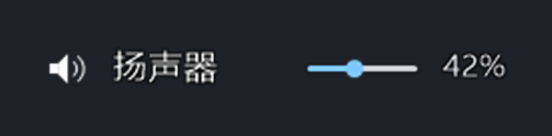
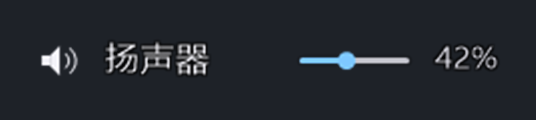
feat: 文字颜色自动跟随任务栏明暗（浅底黑字 / 深底白字）（v1.2.2）
- SetTextColors 统一按底色亮度选字色与描边反差
- 每 60 秒采样 1 个像素判断任务栏明暗（只有明暗真的变了才重绘）
- 右键菜单新增「文字颜色」：自动 / 黑字 / 白字，写进 config 的 textmode
- 版本 1.2.2.0

Changed region(s): [[0.0597, 0.35, 0.4179, 0.625], [0.5373, 0.375, 0.9254, 0.6]]

diff --git a/src/Program.cs b/src/Program.cs
@@ -63,6 +63,7 @@ namespace SideTray
         public string Mode = "taskbar";   // taskbar | float
         public bool ShrinkTaskList = false;
         public bool SwitchInput = true;                 // 切输出时一起切麦克风
+        public string TextMode = "auto";                 // auto | light | dark（light=浅底用黑字）
         public string BgColor = "";                      // 上次采到的任务栏颜色 "r,g,b"，冷启动兜底
         public List<string[]> Pairs = new List<string[]>();  // 手动配对：{输出名/ID, 输入名/ID}
 
@@ -97,6 +98,7 @@ namespace SideTray
                         case "shrink": c.ShrinkTaskList = v != "0"; break;
                         case "switchinput": c.SwitchInput = v != "0"; break;
                         case "bgcolor": c.BgColor = v; break;
+                        case "textmode": if (v == "auto" || v == "light" || v == "dark") c.TextMode = v; break;
                         case "pair":
                             {
                                 var parts = v.Split('|');
@@ -124,6 +126,8 @@ namespace SideTray
                 sb.AppendLine("shrink=" + (ShrinkTaskList ? "1" : "0"));
                 sb.AppendLine("# switchinput: 1 = 切换输出设备时把麦克风也切到配对的设备");
                 sb.AppendLine("switchinput=" + (SwitchInput ? "1" : "0"));
+                sb.AppendLine("# textmode: auto = 按任务栏明暗自动换（浅底黑字/深底白字）, light = 固定黑字, dark = 固定白字");
+                sb.AppendLine("textmode=" + TextMode);
                 if (!string.IsNullOrEmpty(BgColor)) sb.AppendLine("bgcolor=" + BgColor);
                 foreach (var pr in Pairs) sb.AppendLine("pair=" + pr[0] + "|" + pr[1]);
                 sb.AppendLine("x=" + X);
@@ -759,10 +763,11 @@ namespace SideTray
         {
             // 嵌入任务栏时用「白字 + 深色描边」：不管任务栏是浅色、深色还是壁纸透出来的，
             // 都能看清；也因此完全不依赖截屏取色（截屏在某些远程/多屏环境下拿到的是别的画面）
-            var textC = embedded ? Color.White : Ui.Text;
-            var dimC = embedded ? Color.FromArgb(232, 232, 240) : Ui.Dim;
-            var accentC = embedded ? Color.FromArgb(126, 200, 255) : Ui.Accent;
-            var shadowC = Color.FromArgb(175, 0, 0, 0);
+            var textC = embedded ? barText : Ui.Text;
+            var dimC = embedded ? barDim : Ui.Dim;
+            var accentC = embedded ? barAccent : Ui.Accent;
+            // 深底白字描黑边、浅底黑字描白边，两种都能看清
+            var shadowC = bgLight ? Color.FromArgb(200, 255, 255, 255) : Color.FromArgb(185, 0, 0, 0);
             var fontMain = embedded ? Ui.FontCompact : Ui.FontMain;
             var fontSmall = embedded ? Ui.FontTiny : Ui.FontSmall;
 
@@ -825,7 +830,7 @@ namespace SideTray
             if (transparent)
             {
                 // 深浅两层，保证在任何壁纸/任务栏颜色上都看得见
-                using (var under = new Pen(Color.FromArgb(80, 0, 0, 0), thick + 2.5f) { StartCap = LineCap.Round, EndCap = LineCap.Round })
+                using (var under = new Pen(bgLight ? Color.FromArgb(70, 255, 255, 255) : Color.FromArgb(85, 0, 0, 0), thick + 2.5f) { StartCap = LineCap.Round, EndCap = LineCap.Round })
                     g.DrawLine(under, tl, cy, tr, cy);
                 using (var baseTrack = new Pen(Color.FromArgb(225, dimC), thick) { StartCap = LineCap.Round, EndCap = LineCap.Round })
                     g.DrawLine(baseTrack, tl, cy, tr, cy);
@@ -1218,20 +1223,35 @@ namespace SideTray
             return true;
         }
 
+        bool bgLight = true;
+
+        void SetTextColors(bool light)
+        {
+            bgLight = light;
+            barText = light ? Color.FromArgb(22, 22, 26) : Color.FromArgb(242, 242, 248);
+            barDim = light ? Color.FromArgb(64, 64, 72) : Color.FromArgb(214, 214, 224);
+            barAccent = light ? Color.FromArgb(0, 90, 184) : Color.FromArgb(126, 200, 255);
+        }
+
         void SetLookFromColor(Color avg)
         {
             barBg = avg;
-            bool light = avg.GetBrightness() > 0.6f;
-            barText = light ? Color.FromArgb(28, 28, 32) : Color.FromArgb(236, 236, 242);
-            barDim = light ? Color.FromArgb(96, 96, 104) : Color.FromArgb(152, 152, 164);
-            barAccent = light ? Color.FromArgb(0, 96, 190) : Color.FromArgb(96, 176, 255);
+            SetTextColors(avg.GetBrightness() > 0.6f);
+            ApplyTextMode();
+        }
+
+        // 用户在菜单里选了「固定黑字 / 固定白字」时，覆盖自动判断
+        void ApplyTextMode()
+        {
+            if (cfg.TextMode == "light") SetTextColors(true);
+            else if (cfg.TextMode == "dark") SetTextColors(false);
         }
 
         void ApplySavedColors()
         {
             try
             {
-                if (string.IsNullOrWhiteSpace(cfg.BgColor)) { barBg = Ui.Bg; barText = Ui.Text; barDim = Ui.Dim; barAccent = Ui.Accent; return; }
+                if (string.IsNullOrWhiteSpace(cfg.BgColor)) { barBg = Ui.Bg; SetTextColors(false); ApplyTextMode(); return; }
                 var parts = cfg.BgColor.Split(',');
                 SetLookFromColor(Color.FromArgb(int.Parse(parts[0]), int.Parse(parts[1]), int.Parse(parts[2])));
             }
@@ -1248,6 +1268,35 @@ namespace SideTray
             Native.ClientToScreen(tbHost, ref p0);
             CaptureTaskbarBg(tbRect, p0.X, p0.Y, false);
             Invalidate();
+        }
+
+        // 分层模式下只采样 1 个像素，用来判断底色是亮是暗（决定黑字还是白字）
+        void SampleBgOnly()
+        {
+            if (!embedded || tbTaskbar == IntPtr.Zero || tbHost == IntPtr.Zero) return;
+            try
+            {
+                Native.RECT tbRect;
+                Native.GetWindowRect(tbTaskbar, out tbRect);
+                var p0 = new Point(lastPlaced.X, lastPlaced.Y);
+                Native.ClientToScreen(tbHost, ref p0);
+                using (var bmp = new Bitmap(1, 1))
+                {
+                    using (var g = Graphics.FromImage(bmp))
+                        g.CopyFromScreen(p0.X + EW / 2, tbRect.Top + 5, 0, 0, new Size(1, 1));
+                    var c = bmp.GetPixel(0, 0);
+                    bool light = c.GetBrightness() > 0.6f;
+                    if (light != bgLight)
+                    {
+                        Log.W("TEXT 底色变化 -> " + (light ? "浅色(黑字)" : "深色(白字)"));
+                        barBg = c;
+                        SetTextColors(light);
+                        ApplyTextMode();
+                        UpdateNow();
+                    }
+                }
+            }
+            catch { }
         }
 
         // 每 60 秒核对任务栏实际颜色，偏差大就重采（换主题 / 换壁纸后自愈）
@@ -1351,6 +1400,18 @@ namespace SideTray
             var micDdm = micMenu.DropDown as ToolStripDropDownMenu;
             if (micDdm != null) micDdm.ShowImageMargin = true;
             menu.Items.Add(micMenu);
+
+            var colorMenu = new ToolStripMenuItem("文字颜色");
+            Action<string, string> addColor = (mode, label) =>
+            {
+                var it = new ToolStripMenuItem(label) { Checked = cfg.TextMode == mode };
+                it.Click += (s, e) => { cfg.TextMode = mode; cfg.Save(); ApplyTextMode(); UpdateNow(); };
+                colorMenu.DropDownItems.Add(it);
+            };
+            addColor("auto", "自动（按任务栏明暗）");
+            addColor("light", "黑字（浅色任务栏）");
+            addColor("dark", "白字（深色任务栏）");
+            menu.Items.Add(colorMenu);
 
             var linkMic = new ToolStripMenuItem("切输出时同时切麦克风") { Checked = cfg.SwitchInput, CheckOnClick = true };
             linkMic.CheckedChanged += (s, e) => { cfg.SwitchInput = linkMic.Checked; cfg.Save(); };

diff --git a/src/AssemblyInfo.cs b/src/AssemblyInfo.cs
@@ -12,5 +12,5 @@ using System.Runtime.InteropServices;
 [assembly: AssemblyCompany("CuteLittleSky")]
 [assembly: AssemblyCopyright("Copyright (C) 2026 CuteLittleSky — LGPL-3.0-or-later")]
 [assembly: ComVisible(false)]
-[assembly: AssemblyVersion("1.2.1.0")]
-[assembly: AssemblyFileVersion("1.2.1.0")]
+[assembly: AssemblyVersion("1.2.2.0")]
+[assembly: AssemblyFileVersion("1.2.2.0")]
